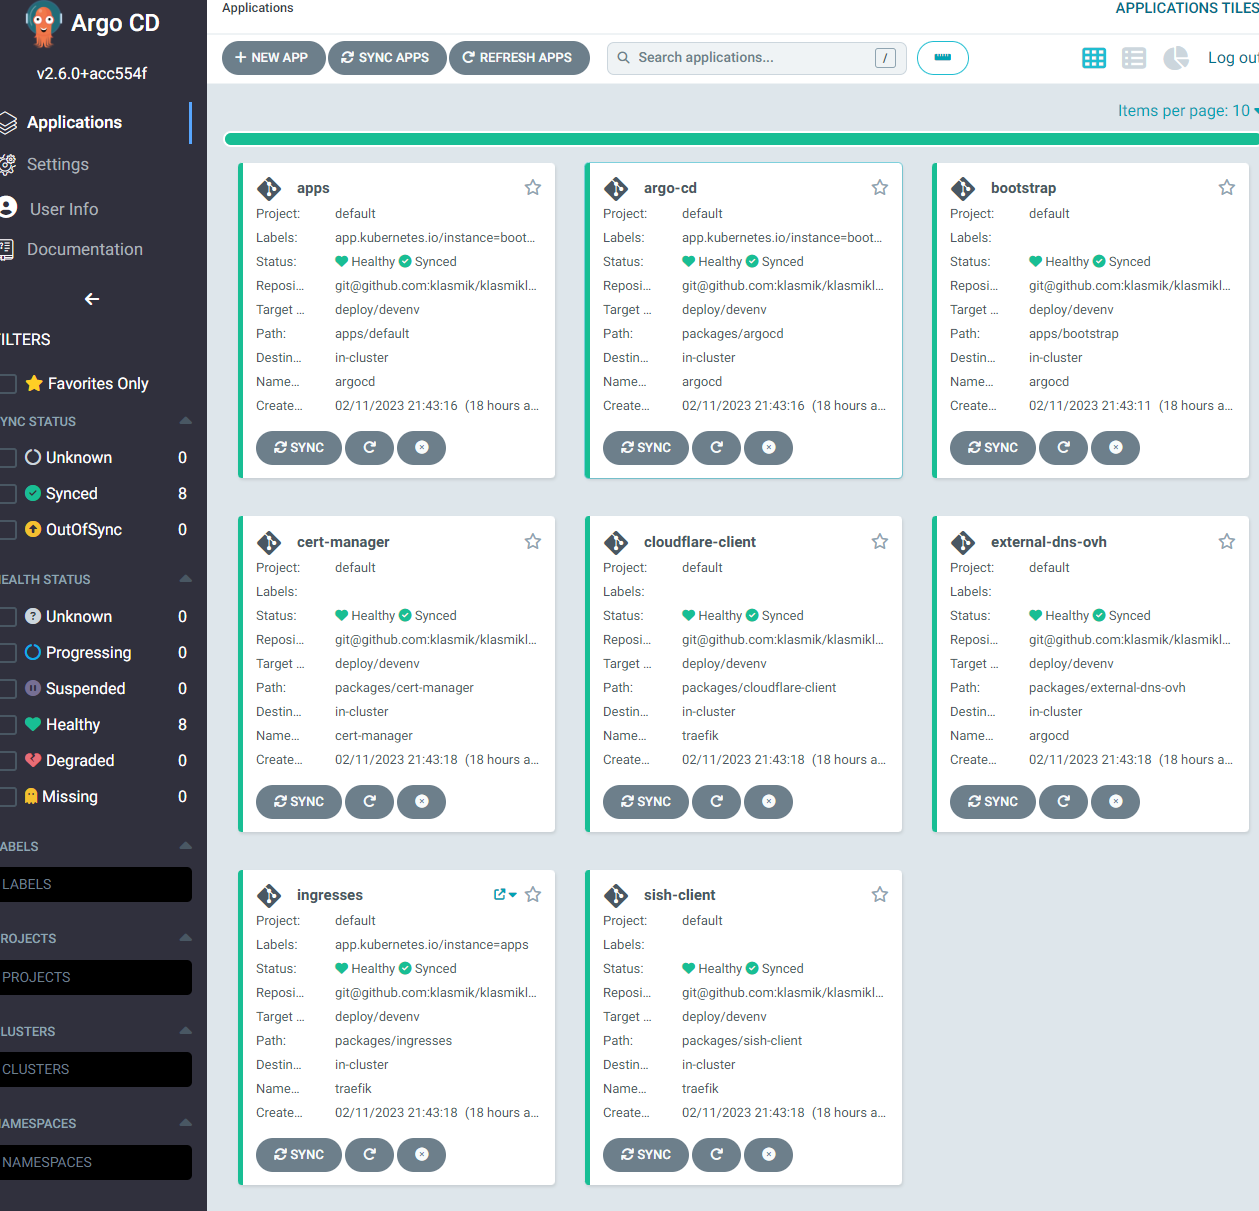
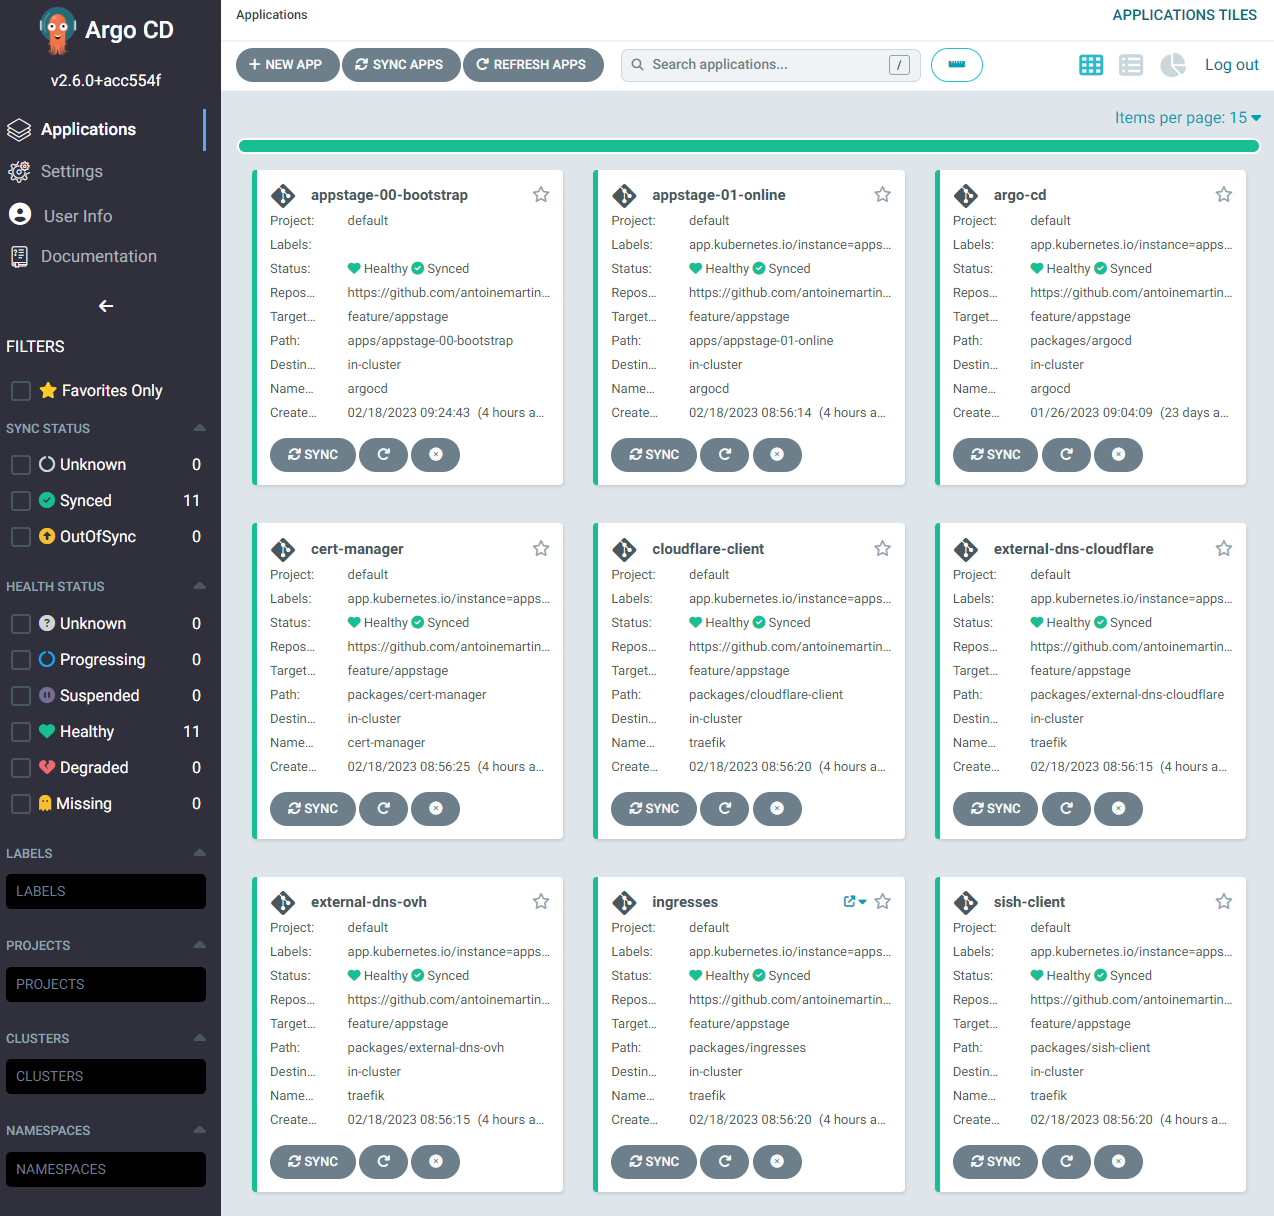
📝 Adapting documentation

Changed region(s): [[0.0, 0.0, 1.0, 1.0], [0.062, 0.2444, 0.0929, 0.275]]

diff --git a/docs/architecture.md b/docs/architecture.md
@@ -16,7 +16,7 @@ The following diagram shows the architecture:
 -   When running on a vanilla kubernetes created by [kubeadm], uninode provides
     the basic services (Ingress, Load balancer, storage, metrics...).
 
-## Bootstrapping stages
+## Cluster bootstrapping and stages
 
 The following diagram summarizes the bootstrapping of the cluster:
 
@@ -28,11 +28,11 @@ flowchart TD
   A[Start] --> AA[Apply Argo CD kustomization];
   AA --> B{{Deploy Argo CD}};
   B --> C>End];
-  C --> |Yes| D(add bootstrap app);
-  D --> E(add traefik app);
-  D --> E2(add argocd app);
+  C --> |Yes| D([+app appstage-00-bootstrap]);
+  D --> E([+app traefik app]);
+  D --> E2([+app argocd app]);
   E2 -.-> B;
-  D --> F[add uninode app];
+  D --> F([+app uninode]);
   E --> dtr{{Deploy traefik}}
   F --> dml{{Deploy MetalLB}}
   F --> dfl{{Deploy Flannel}}
@@ -43,8 +43,21 @@ flowchart TD
   dls --> end2>End];
   dms --> end2>End];
   dtr --> end2>End];
-  end2 --> apps(add apps app)
-  apps --> other(add other apps ...)
+  end2 --> online([+app appstage-01-online])
+  online --> cmapp([+app cert-manager])
+  online --> ednsapp([+app external-dns])
+  online --> ingapp([+app ingresses])
+  online --> cldapp([+app cloudflare-client])
+  cmapp --> dcm{{Deploy Cert Manager}}
+  ednsapp --> dedns{{Deploy External DNS}}
+  ingapp --> ding{{Deploy Ingresses}}
+  cldapp --> dcld{{Deploy Cloudflare client}}
+  dcm --> end3>End];
+  dedns --> end3>End];
+  ding --> end3>End];
+  dcld --> end3>End];
+  end3 --> xxx([+app appstage-02-xxx])
+  xxx --> follow([...])
 
 ```
 
@@ -52,20 +65,21 @@ The bootstrapping of the cluster is like a domino:
 
 1.  First the Argo CD kustomization is applied from outside the cluster.
 2.  In the kustomization, there is a job that waits for the deployment of Argo
-    CD to settle. When it's done, it adds the `bootstrap` application.
-3.  The `bootstrap` application points to a directory containing other
-    applications. One of them points back to the Argo CD kustomization in the
-    repo. Since it has already been deployed, nothing happens. But in the future
-    if Argo CD detects a change in the kustomization in the repo, it will _auto
-    apply_ it to itself.
-4.  The other applications of the `apps/bootstrap` directory install base
-    services that are required to go further: `uninode` installs what is needed
-    on a development cluster to use Storage, LoadBalanced services, Network and
-    Auto-scaling. `traefik` provides the ingress controller.
-5.  After the previous applications have settled, the `apps` application is
-    applied to start the next stage. This application point to another
-    _applications_ directory, `apps/default`, containing the second stage of
-    base services:
+    CD to settle. When it's done, it adds the `appstage-00-bootstrap`
+    application.
+3.  The `appstage-00-bootstrap` application points to a directory containing
+    other applications. One of them points back to the Argo CD kustomization in
+    the repo. Since it has already been deployed, nothing happens. But in the
+    future if Argo CD detects a change in the kustomization in the repo, it will
+    _auto apply_ it to itself.
+4.  The other applications of the `apps/appstage-00-bootstrap` directory install
+    base services that are required to go further: `uninode` installs what is
+    needed on a development cluster to use Storage, LoadBalanced services,
+    Network and Auto-scaling. `traefik` provides the ingress controller.
+5.  After the previous applications have settled, the `appstage-01-online`
+    application is inserted to start the next stage. This application point to
+    another _applications_ directory, `apps/appstage-01-online`, containing the
+    second stage of base services:
     -   `ingresses` deploy ingresses to access Argo CD from internet.
     -   `cert-manager` deploys cert-manager.
     -   `external-dns-ovh` deploys external DNS using OVH API for OVH domains.
@@ -73,6 +87,16 @@ The bootstrapping of the cluster is like a domino:
         Cloudflare domains.
     -   `cloudflare-client` installs the Cloudflare tunnel client.
     -   `sish-client` installs the sish tunnel client.
+
+At this point, Argo CD _auto manages_ the cluster and is ready to accept new
+stages.
+
+A new stage can be created by creating a `apps/appstage-02-whatever` directory
+and adding applications symbolic links to it. Then, in `apps/available`, create
+a file named `appstage-02-whatever.yml` defining the `appstage-02-whatever`
+pointing to the previous created directory. To finish, add a symbolic link to
+this file in `apps/appstage-02-online` and commit it. This will bootstrap the
+new stage.
 
 <!-- prettier-ignore-start -->
 

diff --git a/docs/getting-started/4-environment-adaptation.md b/docs/getting-started/4-environment-adaptation.md
@@ -510,7 +510,7 @@ Apply the values to the current environment:
             modified:   apps/available/apisix.yaml
             modified:   apps/available/applications-set.yaml
             modified:   apps/available/argocd.yaml
-            modified:   apps/available/bootstrap.yaml
+            modified:   apps/available/appstage-00-bootstrap.yaml
             modified:   apps/available/cert-manager.yaml
             modified:   apps/available/chisel-client.yaml
             modified:   apps/available/external-dns-cloudflare.yaml
@@ -547,7 +547,7 @@ Apply the values to the current environment:
             modified:   apps/available/apisix.yaml
             modified:   apps/available/applications-set.yaml
             modified:   apps/available/argocd.yaml
-            modified:   apps/available/bootstrap.yaml
+            modified:   apps/available/appstage-00-bootstrap.yaml
             modified:   apps/available/cert-manager.yaml
             modified:   apps/available/chisel-client.yaml
             modified:   apps/available/external-dns-cloudflare.yaml
@@ -574,7 +574,7 @@ Apply the values to the current environment:
 ## Selecting the applications to deploy at bootstrap
 
 To understand how the cluster is bootstrapped, please read the relevant section
-in the [Architecture page](../architecture.md#bootstrapping-stages).
+in the [Architecture page](../architecture.md#cluster-bootstrapping-and-stages).
 
 What we will do for now is just add or remove the symbolic links to applications
 manifests in the `apps/bootstrap` and `apps/default` directories to accommodate
@@ -582,19 +582,20 @@ our setup.
 
 Taking K3s as an example, it provides out of the box the load balancer, storage
 class, metrics and ingress controller. In consequence, we don't need to deploy
-`uninode` nor `traefik`. We will remove them from bootstrap:
+`uninode` nor `traefik`. We will remove them from the bootstrap stage in the
+`apps/appstage-00-bootstrap` directory:
 
 === "Shell"
 
     ```bash
-    $ rm apps/bootstrap/{traefik,uninode}.yaml
+    $ rm apps/appstage-00-bootstrap/{traefik,uninode}.yaml
     $
     ```
 
 === "PowerShell"
 
     ```powershell
-    PS> @('traefik', 'uninode') | % { remove-item apps/bootstrap/$_.yaml }
+    PS> @('traefik', 'uninode') | % { remove-item apps\appstage-00-bootstrap\$_.yaml }
     PS>
     ```
 

diff --git a/docs/getting-started/5-cluster-deployment.md b/docs/getting-started/5-cluster-deployment.md
@@ -74,16 +74,16 @@ And then see the applications with the following command:
 
 ```bash
 > kubectl -n argocd get applications
-NAME                SYNC STATUS   HEALTH STATUS
-external-dns-ovh    Synced        Healthy
-sish-client         Synced        Healthy
-ingresses           Synced        Healthy
-cloudflare-client   Synced        Healthy
-apps                Synced        Healthy
-bootstrap           Synced        Healthy
-cert-manager        Synced        Healthy
-argo-cd             Synced        Healthy
->
+NAME                      SYNC STATUS   HEALTH STATUS
+appstage-00-bootstrap     Synced        Healthy
+appstage-01-online        Synced        Healthy
+argo-cd                   Synced        Healthy
+cert-manager              Synced        Healthy
+cloudflare-client         Synced        Healthy
+external-dns-cloudflare   Synced        Healthy
+external-dns-ovh          Synced        Healthy
+ingresses                 Synced        Healthy
+sish-client               Synced        Healthy
 ```
 
 Going to the configured URL (here

diff --git a/docs/user-guide/managing-stages.md b/docs/user-guide/managing-stages.md
@@ -1,0 +1,11 @@
+# Managing Cluster Deployment Stages
+
+!!!bug "Work in Progress"
+
+    This section is a work in progress.
+
+## Introduction
+
+## Adding stages
+
+## Parallel stages
